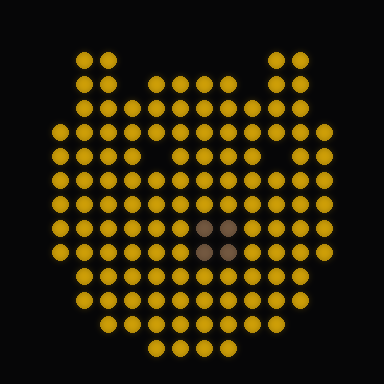
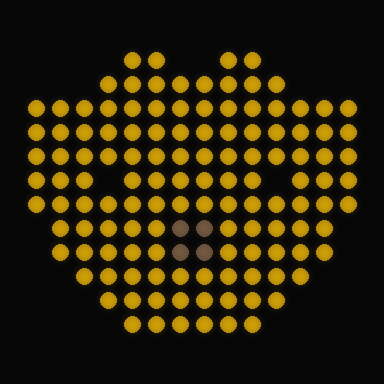
Redesign dog/cat/fish as explicit pixel rows instead of triangle() composition
triangle() rasterizes a shape as narrow as an ear or tail into a flat-topped
block at 16x16, not a point -- confirmed by zooming into the previous
render. Switched to the same technique as the heart and the existing
hand-painted icons (bunny.py, duck.py): explicit per-row rect() spans, so
the silhouette is authored directly instead of composed from primitives
that don't taper cleanly at this resolution.

First pass still had ears/tips with a gap wide enough to read as two
separate lobes (bear-like) instead of ears on one head; narrowed it so the
gap closes after a single row.

diff --git a/Bag3/Code/BroadcastCode/IconDisplay/icons/dog.py b/Bag3/Code/BroadcastCode/IconDisplay/icons/dog.py
@@ -2,18 +2,18 @@
 ICON = (
     (0, 0, 0), (0, 0, 0), (0, 0, 0), (0, 0, 0), (0, 0, 0), (0, 0, 0), (0, 0, 0), (0, 0, 0), (0, 0, 0), (0, 0, 0), (0, 0, 0), (0, 0, 0), (0, 0, 0), (0, 0, 0), (0, 0, 0), (0, 0, 0),
     (0, 0, 0), (0, 0, 0), (0, 0, 0), (0, 0, 0), (0, 0, 0), (0, 0, 0), (0, 0, 0), (0, 0, 0), (0, 0, 0), (0, 0, 0), (0, 0, 0), (0, 0, 0), (0, 0, 0), (0, 0, 0), (0, 0, 0), (0, 0, 0),
-    (0, 0, 0), (0, 0, 0), (0, 0, 0), (70, 40, 20), (70, 40, 20), (0, 0, 0), (0, 0, 0), (0, 0, 0), (0, 0, 0), (0, 0, 0), (0, 0, 0), (70, 40, 20), (70, 40, 20), (0, 0, 0), (0, 0, 0), (0, 0, 0),
-    (0, 0, 0), (0, 0, 0), (0, 0, 0), (70, 40, 20), (70, 40, 20), (0, 0, 0), (0, 0, 0), (0, 0, 0), (0, 0, 0), (0, 0, 0), (0, 0, 0), (70, 40, 20), (70, 40, 20), (0, 0, 0), (0, 0, 0), (0, 0, 0),
-    (0, 0, 0), (0, 0, 0), (0, 0, 0), (70, 40, 20), (70, 40, 20), (0, 0, 0), (120, 70, 20), (120, 70, 20), (120, 70, 20), (120, 70, 20), (0, 0, 0), (70, 40, 20), (70, 40, 20), (0, 0, 0), (0, 0, 0), (0, 0, 0),
-    (0, 0, 0), (0, 0, 0), (70, 40, 20), (70, 40, 20), (70, 40, 20), (70, 40, 20), (120, 70, 20), (120, 70, 20), (120, 70, 20), (120, 70, 20), (70, 40, 20), (70, 40, 20), (70, 40, 20), (70, 40, 20), (0, 0, 0), (0, 0, 0),
-    (0, 0, 0), (0, 0, 0), (70, 40, 20), (70, 40, 20), (70, 40, 20), (70, 40, 20), (0, 0, 0), (120, 70, 20), (120, 70, 20), (120, 70, 20), (0, 0, 0), (70, 40, 20), (70, 40, 20), (70, 40, 20), (0, 0, 0), (0, 0, 0),
+    (0, 0, 0), (0, 0, 0), (0, 0, 0), (0, 0, 0), (0, 0, 0), (70, 40, 20), (70, 40, 20), (0, 0, 0), (0, 0, 0), (70, 40, 20), (70, 40, 20), (0, 0, 0), (0, 0, 0), (0, 0, 0), (0, 0, 0), (0, 0, 0),
+    (0, 0, 0), (0, 0, 0), (0, 0, 0), (0, 0, 0), (70, 40, 20), (70, 40, 20), (70, 40, 20), (70, 40, 20), (70, 40, 20), (70, 40, 20), (70, 40, 20), (70, 40, 20), (0, 0, 0), (0, 0, 0), (0, 0, 0), (0, 0, 0),
+    (0, 0, 0), (120, 70, 20), (120, 70, 20), (120, 70, 20), (120, 70, 20), (120, 70, 20), (120, 70, 20), (120, 70, 20), (120, 70, 20), (120, 70, 20), (120, 70, 20), (120, 70, 20), (120, 70, 20), (120, 70, 20), (120, 70, 20), (0, 0, 0),
+    (0, 0, 0), (120, 70, 20), (120, 70, 20), (120, 70, 20), (120, 70, 20), (120, 70, 20), (120, 70, 20), (120, 70, 20), (120, 70, 20), (120, 70, 20), (120, 70, 20), (120, 70, 20), (120, 70, 20), (120, 70, 20), (120, 70, 20), (0, 0, 0),
+    (0, 0, 0), (120, 70, 20), (120, 70, 20), (120, 70, 20), (120, 70, 20), (120, 70, 20), (120, 70, 20), (120, 70, 20), (120, 70, 20), (120, 70, 20), (120, 70, 20), (120, 70, 20), (120, 70, 20), (120, 70, 20), (120, 70, 20), (0, 0, 0),
+    (0, 0, 0), (120, 70, 20), (120, 70, 20), (120, 70, 20), (0, 0, 0), (120, 70, 20), (120, 70, 20), (120, 70, 20), (120, 70, 20), (120, 70, 20), (120, 70, 20), (0, 0, 0), (120, 70, 20), (120, 70, 20), (120, 70, 20), (0, 0, 0),
+    (0, 0, 0), (120, 70, 20), (120, 70, 20), (120, 70, 20), (120, 70, 20), (120, 70, 20), (120, 70, 20), (120, 70, 20), (120, 70, 20), (120, 70, 20), (120, 70, 20), (120, 70, 20), (120, 70, 20), (120, 70, 20), (120, 70, 20), (0, 0, 0),
     (0, 0, 0), (0, 0, 0), (120, 70, 20), (120, 70, 20), (120, 70, 20), (120, 70, 20), (120, 70, 20), (120, 70, 20), (120, 70, 20), (120, 70, 20), (120, 70, 20), (120, 70, 20), (120, 70, 20), (120, 70, 20), (0, 0, 0), (0, 0, 0),
-    (0, 0, 0), (0, 0, 0), (120, 70, 20), (120, 70, 20), (120, 70, 20), (120, 70, 20), (120, 70, 20), (120, 70, 20), (120, 70, 20), (120, 70, 20), (120, 70, 20), (120, 70, 20), (120, 70, 20), (120, 70, 20), (0, 0, 0), (0, 0, 0),
-    (0, 0, 0), (0, 0, 0), (120, 70, 20), (120, 70, 20), (120, 70, 20), (120, 70, 20), (120, 70, 20), (120, 70, 20), (120, 70, 20), (120, 70, 20), (120, 70, 20), (120, 70, 20), (120, 70, 20), (120, 70, 20), (0, 0, 0), (0, 0, 0),
-    (0, 0, 0), (0, 0, 0), (120, 70, 20), (120, 70, 20), (120, 70, 20), (120, 70, 20), (120, 70, 20), (70, 40, 20), (70, 40, 20), (120, 70, 20), (120, 70, 20), (120, 70, 20), (120, 70, 20), (120, 70, 20), (0, 0, 0), (0, 0, 0),
-    (0, 0, 0), (0, 0, 0), (120, 70, 20), (120, 70, 20), (120, 70, 20), (120, 70, 20), (70, 40, 20), (70, 40, 20), (70, 40, 20), (70, 40, 20), (120, 70, 20), (120, 70, 20), (120, 70, 20), (120, 70, 20), (0, 0, 0), (0, 0, 0),
-    (0, 0, 0), (0, 0, 0), (0, 0, 0), (120, 70, 20), (120, 70, 20), (120, 70, 20), (70, 40, 20), (70, 40, 20), (0, 0, 0), (70, 40, 20), (120, 70, 20), (120, 70, 20), (120, 70, 20), (0, 0, 0), (0, 0, 0), (0, 0, 0),
-    (0, 0, 0), (0, 0, 0), (0, 0, 0), (0, 0, 0), (120, 70, 20), (120, 70, 20), (120, 70, 20), (70, 40, 20), (70, 40, 20), (120, 70, 20), (120, 70, 20), (120, 70, 20), (0, 0, 0), (0, 0, 0), (0, 0, 0), (0, 0, 0),
-    (0, 0, 0), (0, 0, 0), (0, 0, 0), (0, 0, 0), (0, 0, 0), (0, 0, 0), (120, 70, 20), (120, 70, 20), (120, 70, 20), (120, 70, 20), (0, 0, 0), (0, 0, 0), (0, 0, 0), (0, 0, 0), (0, 0, 0), (0, 0, 0),
+    (0, 0, 0), (0, 0, 0), (120, 70, 20), (120, 70, 20), (120, 70, 20), (120, 70, 20), (120, 70, 20), (0, 0, 0), (0, 0, 0), (120, 70, 20), (120, 70, 20), (120, 70, 20), (120, 70, 20), (120, 70, 20), (0, 0, 0), (0, 0, 0),
+    (0, 0, 0), (0, 0, 0), (0, 0, 0), (120, 70, 20), (120, 70, 20), (120, 70, 20), (120, 70, 20), (120, 70, 20), (120, 70, 20), (120, 70, 20), (120, 70, 20), (120, 70, 20), (120, 70, 20), (0, 0, 0), (0, 0, 0), (0, 0, 0),
+    (0, 0, 0), (0, 0, 0), (0, 0, 0), (0, 0, 0), (120, 70, 20), (120, 70, 20), (120, 70, 20), (120, 70, 20), (120, 70, 20), (120, 70, 20), (120, 70, 20), (120, 70, 20), (0, 0, 0), (0, 0, 0), (0, 0, 0), (0, 0, 0),
+    (0, 0, 0), (0, 0, 0), (0, 0, 0), (0, 0, 0), (0, 0, 0), (120, 70, 20), (120, 70, 20), (120, 70, 20), (120, 70, 20), (120, 70, 20), (120, 70, 20), (0, 0, 0), (0, 0, 0), (0, 0, 0), (0, 0, 0), (0, 0, 0),
+    (0, 0, 0), (0, 0, 0), (0, 0, 0), (0, 0, 0), (0, 0, 0), (0, 0, 0), (0, 0, 0), (0, 0, 0), (0, 0, 0), (0, 0, 0), (0, 0, 0), (0, 0, 0), (0, 0, 0), (0, 0, 0), (0, 0, 0), (0, 0, 0),
     (0, 0, 0), (0, 0, 0), (0, 0, 0), (0, 0, 0), (0, 0, 0), (0, 0, 0), (0, 0, 0), (0, 0, 0), (0, 0, 0), (0, 0, 0), (0, 0, 0), (0, 0, 0), (0, 0, 0), (0, 0, 0), (0, 0, 0), (0, 0, 0),
 )

diff --git a/Bag3/Code/Stations/Icon Display Station/icons/dog.py b/Bag3/Code/Stations/Icon Display Station/icons/dog.py
@@ -2,18 +2,18 @@
 ICON = (
     (0, 0, 0), (0, 0, 0), (0, 0, 0), (0, 0, 0), (0, 0, 0), (0, 0, 0), (0, 0, 0), (0, 0, 0), (0, 0, 0), (0, 0, 0), (0, 0, 0), (0, 0, 0), (0, 0, 0), (0, 0, 0), (0, 0, 0), (0, 0, 0),
     (0, 0, 0), (0, 0, 0), (0, 0, 0), (0, 0, 0), (0, 0, 0), (0, 0, 0), (0, 0, 0), (0, 0, 0), (0, 0, 0), (0, 0, 0), (0, 0, 0), (0, 0, 0), (0, 0, 0), (0, 0, 0), (0, 0, 0), (0, 0, 0),
-    (0, 0, 0), (0, 0, 0), (0, 0, 0), (70, 40, 20), (70, 40, 20), (0, 0, 0), (0, 0, 0), (0, 0, 0), (0, 0, 0), (0, 0, 0), (0, 0, 0), (70, 40, 20), (70, 40, 20), (0, 0, 0), (0, 0, 0), (0, 0, 0),
-    (0, 0, 0), (0, 0, 0), (0, 0, 0), (70, 40, 20), (70, 40, 20), (0, 0, 0), (0, 0, 0), (0, 0, 0), (0, 0, 0), (0, 0, 0), (0, 0, 0), (70, 40, 20), (70, 40, 20), (0, 0, 0), (0, 0, 0), (0, 0, 0),
-    (0, 0, 0), (0, 0, 0), (0, 0, 0), (70, 40, 20), (70, 40, 20), (0, 0, 0), (120, 70, 20), (120, 70, 20), (120, 70, 20), (120, 70, 20), (0, 0, 0), (70, 40, 20), (70, 40, 20), (0, 0, 0), (0, 0, 0), (0, 0, 0),
-    (0, 0, 0), (0, 0, 0), (70, 40, 20), (70, 40, 20), (70, 40, 20), (70, 40, 20), (120, 70, 20), (120, 70, 20), (120, 70, 20), (120, 70, 20), (70, 40, 20), (70, 40, 20), (70, 40, 20), (70, 40, 20), (0, 0, 0), (0, 0, 0),
-    (0, 0, 0), (0, 0, 0), (70, 40, 20), (70, 40, 20), (70, 40, 20), (70, 40, 20), (0, 0, 0), (120, 70, 20), (120, 70, 20), (120, 70, 20), (0, 0, 0), (70, 40, 20), (70, 40, 20), (70, 40, 20), (0, 0, 0), (0, 0, 0),
+    (0, 0, 0), (0, 0, 0), (0, 0, 0), (0, 0, 0), (0, 0, 0), (70, 40, 20), (70, 40, 20), (0, 0, 0), (0, 0, 0), (70, 40, 20), (70, 40, 20), (0, 0, 0), (0, 0, 0), (0, 0, 0), (0, 0, 0), (0, 0, 0),
+    (0, 0, 0), (0, 0, 0), (0, 0, 0), (0, 0, 0), (70, 40, 20), (70, 40, 20), (70, 40, 20), (70, 40, 20), (70, 40, 20), (70, 40, 20), (70, 40, 20), (70, 40, 20), (0, 0, 0), (0, 0, 0), (0, 0, 0), (0, 0, 0),
+    (0, 0, 0), (120, 70, 20), (120, 70, 20), (120, 70, 20), (120, 70, 20), (120, 70, 20), (120, 70, 20), (120, 70, 20), (120, 70, 20), (120, 70, 20), (120, 70, 20), (120, 70, 20), (120, 70, 20), (120, 70, 20), (120, 70, 20), (0, 0, 0),
+    (0, 0, 0), (120, 70, 20), (120, 70, 20), (120, 70, 20), (120, 70, 20), (120, 70, 20), (120, 70, 20), (120, 70, 20), (120, 70, 20), (120, 70, 20), (120, 70, 20), (120, 70, 20), (120, 70, 20), (120, 70, 20), (120, 70, 20), (0, 0, 0),
+    (0, 0, 0), (120, 70, 20), (120, 70, 20), (120, 70, 20), (120, 70, 20), (120, 70, 20), (120, 70, 20), (120, 70, 20), (120, 70, 20), (120, 70, 20), (120, 70, 20), (120, 70, 20), (120, 70, 20), (120, 70, 20), (120, 70, 20), (0, 0, 0),
+    (0, 0, 0), (120, 70, 20), (120, 70, 20), (120, 70, 20), (0, 0, 0), (120, 70, 20), (120, 70, 20), (120, 70, 20), (120, 70, 20), (120, 70, 20), (120, 70, 20), (0, 0, 0), (120, 70, 20), (120, 70, 20), (120, 70, 20), (0, 0, 0),
+    (0, 0, 0), (120, 70, 20), (120, 70, 20), (120, 70, 20), (120, 70, 20), (120, 70, 20), (120, 70, 20), (120, 70, 20), (120, 70, 20), (120, 70, 20), (120, 70, 20), (120, 70, 20), (120, 70, 20), (120, 70, 20), (120, 70, 20), (0, 0, 0),
     (0, 0, 0), (0, 0, 0), (120, 70, 20), (120, 70, 20), (120, 70, 20), (120, 70, 20), (120, 70, 20), (120, 70, 20), (120, 70, 20), (120, 70, 20), (120, 70, 20), (120, 70, 20), (120, 70, 20), (120, 70, 20), (0, 0, 0), (0, 0, 0),
-    (0, 0, 0), (0, 0, 0), (120, 70, 20), (120, 70, 20), (120, 70, 20), (120, 70, 20), (120, 70, 20), (120, 70, 20), (120, 70, 20), (120, 70, 20), (120, 70, 20), (120, 70, 20), (120, 70, 20), (120, 70, 20), (0, 0, 0), (0, 0, 0),
-    (0, 0, 0), (0, 0, 0), (120, 70, 20), (120, 70, 20), (120, 70, 20), (120, 70, 20), (120, 70, 20), (120, 70, 20), (120, 70, 20), (120, 70, 20), (120, 70, 20), (120, 70, 20), (120, 70, 20), (120, 70, 20), (0, 0, 0), (0, 0, 0),
-    (0, 0, 0), (0, 0, 0), (120, 70, 20), (120, 70, 20), (120, 70, 20), (120, 70, 20), (120, 70, 20), (70, 40, 20), (70, 40, 20), (120, 70, 20), (120, 70, 20), (120, 70, 20), (120, 70, 20), (120, 70, 20), (0, 0, 0), (0, 0, 0),
-    (0, 0, 0), (0, 0, 0), (120, 70, 20), (120, 70, 20), (120, 70, 20), (120, 70, 20), (70, 40, 20), (70, 40, 20), (70, 40, 20), (70, 40, 20), (120, 70, 20), (120, 70, 20), (120, 70, 20), (120, 70, 20), (0, 0, 0), (0, 0, 0),
-    (0, 0, 0), (0, 0, 0), (0, 0, 0), (120, 70, 20), (120, 70, 20), (120, 70, 20), (70, 40, 20), (70, 40, 20), (0, 0, 0), (70, 40, 20), (120, 70, 20), (120, 70, 20), (120, 70, 20), (0, 0, 0), (0, 0, 0), (0, 0, 0),
-    (0, 0, 0), (0, 0, 0), (0, 0, 0), (0, 0, 0), (120, 70, 20), (120, 70, 20), (120, 70, 20), (70, 40, 20), (70, 40, 20), (120, 70, 20), (120, 70, 20), (120, 70, 20), (0, 0, 0), (0, 0, 0), (0, 0, 0), (0, 0, 0),
-    (0, 0, 0), (0, 0, 0), (0, 0, 0), (0, 0, 0), (0, 0, 0), (0, 0, 0), (120, 70, 20), (120, 70, 20), (120, 70, 20), (120, 70, 20), (0, 0, 0), (0, 0, 0), (0, 0, 0), (0, 0, 0), (0, 0, 0), (0, 0, 0),
+    (0, 0, 0), (0, 0, 0), (120, 70, 20), (120, 70, 20), (120, 70, 20), (120, 70, 20), (120, 70, 20), (0, 0, 0), (0, 0, 0), (120, 70, 20), (120, 70, 20), (120, 70, 20), (120, 70, 20), (120, 70, 20), (0, 0, 0), (0, 0, 0),
+    (0, 0, 0), (0, 0, 0), (0, 0, 0), (120, 70, 20), (120, 70, 20), (120, 70, 20), (120, 70, 20), (120, 70, 20), (120, 70, 20), (120, 70, 20), (120, 70, 20), (120, 70, 20), (120, 70, 20), (0, 0, 0), (0, 0, 0), (0, 0, 0),
+    (0, 0, 0), (0, 0, 0), (0, 0, 0), (0, 0, 0), (120, 70, 20), (120, 70, 20), (120, 70, 20), (120, 70, 20), (120, 70, 20), (120, 70, 20), (120, 70, 20), (120, 70, 20), (0, 0, 0), (0, 0, 0), (0, 0, 0), (0, 0, 0),
+    (0, 0, 0), (0, 0, 0), (0, 0, 0), (0, 0, 0), (0, 0, 0), (120, 70, 20), (120, 70, 20), (120, 70, 20), (120, 70, 20), (120, 70, 20), (120, 70, 20), (0, 0, 0), (0, 0, 0), (0, 0, 0), (0, 0, 0), (0, 0, 0),
+    (0, 0, 0), (0, 0, 0), (0, 0, 0), (0, 0, 0), (0, 0, 0), (0, 0, 0), (0, 0, 0), (0, 0, 0), (0, 0, 0), (0, 0, 0), (0, 0, 0), (0, 0, 0), (0, 0, 0), (0, 0, 0), (0, 0, 0), (0, 0, 0),
     (0, 0, 0), (0, 0, 0), (0, 0, 0), (0, 0, 0), (0, 0, 0), (0, 0, 0), (0, 0, 0), (0, 0, 0), (0, 0, 0), (0, 0, 0), (0, 0, 0), (0, 0, 0), (0, 0, 0), (0, 0, 0), (0, 0, 0), (0, 0, 0),
 )

diff --git a/Bag3/Code/BroadcastCode/IconDisplay/icons/cat.py b/Bag3/Code/BroadcastCode/IconDisplay/icons/cat.py
@@ -2,18 +2,18 @@
 ICON = (
     (0, 0, 0), (0, 0, 0), (0, 0, 0), (0, 0, 0), (0, 0, 0), (0, 0, 0), (0, 0, 0), (0, 0, 0), (0, 0, 0), (0, 0, 0), (0, 0, 0), (0, 0, 0), (0, 0, 0), (0, 0, 0), (0, 0, 0), (0, 0, 0),
     (0, 0, 0), (0, 0, 0), (0, 0, 0), (0, 0, 0), (0, 0, 0), (0, 0, 0), (0, 0, 0), (0, 0, 0), (0, 0, 0), (0, 0, 0), (0, 0, 0), (0, 0, 0), (0, 0, 0), (0, 0, 0), (0, 0, 0), (0, 0, 0),
-    (0, 0, 0), (0, 0, 0), (0, 0, 0), (255, 140, 0), (255, 140, 0), (0, 0, 0), (0, 0, 0), (0, 0, 0), (0, 0, 0), (0, 0, 0), (0, 0, 0), (255, 140, 0), (255, 140, 0), (0, 0, 0), (0, 0, 0), (0, 0, 0),
-    (0, 0, 0), (0, 0, 0), (0, 0, 0), (255, 140, 0), (255, 140, 0), (0, 0, 0), (255, 140, 0), (255, 140, 0), (255, 140, 0), (255, 140, 0), (0, 0, 0), (255, 140, 0), (255, 140, 0), (0, 0, 0), (0, 0, 0), (0, 0, 0),
-    (0, 0, 0), (0, 0, 0), (0, 0, 0), (255, 140, 0), (255, 140, 0), (255, 140, 0), (255, 140, 0), (255, 140, 0), (255, 140, 0), (255, 140, 0), (255, 140, 0), (255, 140, 0), (255, 140, 0), (0, 0, 0), (0, 0, 0), (0, 0, 0),
-    (0, 0, 0), (0, 0, 0), (255, 140, 0), (255, 140, 0), (255, 140, 0), (255, 140, 0), (255, 140, 0), (255, 140, 0), (255, 140, 0), (255, 140, 0), (255, 140, 0), (255, 140, 0), (255, 140, 0), (255, 140, 0), (0, 0, 0), (0, 0, 0),
-    (0, 0, 0), (0, 0, 0), (255, 140, 0), (255, 140, 0), (255, 140, 0), (255, 140, 0), (0, 0, 0), (255, 140, 0), (255, 140, 0), (255, 140, 0), (255, 140, 0), (0, 0, 0), (255, 140, 0), (255, 140, 0), (0, 0, 0), (0, 0, 0),
-    (0, 0, 0), (0, 0, 0), (255, 140, 0), (255, 140, 0), (255, 140, 0), (255, 140, 0), (255, 140, 0), (255, 140, 0), (255, 140, 0), (255, 140, 0), (255, 140, 0), (255, 140, 0), (255, 140, 0), (255, 140, 0), (0, 0, 0), (0, 0, 0),
-    (0, 0, 0), (0, 0, 0), (255, 140, 0), (255, 140, 0), (255, 140, 0), (255, 140, 0), (255, 140, 0), (255, 140, 0), (255, 140, 0), (255, 140, 0), (255, 140, 0), (255, 140, 0), (255, 140, 0), (255, 140, 0), (0, 0, 0), (0, 0, 0),
-    (0, 0, 0), (0, 0, 0), (255, 140, 0), (255, 140, 0), (255, 140, 0), (255, 140, 0), (255, 140, 0), (255, 140, 0), (70, 40, 20), (70, 40, 20), (255, 140, 0), (255, 140, 0), (255, 140, 0), (255, 140, 0), (0, 0, 0), (0, 0, 0),
-    (0, 0, 0), (0, 0, 0), (255, 140, 0), (255, 140, 0), (255, 140, 0), (255, 140, 0), (255, 140, 0), (255, 140, 0), (70, 40, 20), (70, 40, 20), (255, 140, 0), (255, 140, 0), (255, 140, 0), (255, 140, 0), (0, 0, 0), (0, 0, 0),
-    (0, 0, 0), (0, 0, 0), (0, 0, 0), (255, 140, 0), (255, 140, 0), (255, 140, 0), (255, 140, 0), (255, 140, 0), (255, 140, 0), (255, 140, 0), (255, 140, 0), (255, 140, 0), (255, 140, 0), (0, 0, 0), (0, 0, 0), (0, 0, 0),
+    (0, 0, 0), (0, 0, 0), (0, 0, 0), (0, 0, 0), (0, 0, 0), (255, 140, 0), (255, 140, 0), (0, 0, 0), (0, 0, 0), (255, 140, 0), (255, 140, 0), (0, 0, 0), (0, 0, 0), (0, 0, 0), (0, 0, 0), (0, 0, 0),
+    (0, 0, 0), (0, 0, 0), (0, 0, 0), (0, 0, 0), (255, 140, 0), (255, 140, 0), (255, 140, 0), (255, 140, 0), (255, 140, 0), (255, 140, 0), (255, 140, 0), (255, 140, 0), (0, 0, 0), (0, 0, 0), (0, 0, 0), (0, 0, 0),
+    (0, 0, 0), (255, 140, 0), (255, 140, 0), (255, 140, 0), (255, 140, 0), (255, 140, 0), (255, 140, 0), (255, 140, 0), (255, 140, 0), (255, 140, 0), (255, 140, 0), (255, 140, 0), (255, 140, 0), (255, 140, 0), (255, 140, 0), (0, 0, 0),
+    (0, 0, 0), (255, 140, 0), (255, 140, 0), (255, 140, 0), (255, 140, 0), (255, 140, 0), (255, 140, 0), (255, 140, 0), (255, 140, 0), (255, 140, 0), (255, 140, 0), (255, 140, 0), (255, 140, 0), (255, 140, 0), (255, 140, 0), (0, 0, 0),
+    (0, 0, 0), (255, 140, 0), (255, 140, 0), (255, 140, 0), (255, 140, 0), (255, 140, 0), (255, 140, 0), (255, 140, 0), (255, 140, 0), (255, 140, 0), (255, 140, 0), (255, 140, 0), (255, 140, 0), (255, 140, 0), (255, 140, 0), (0, 0, 0),
+    (0, 0, 0), (255, 140, 0), (255, 140, 0), (255, 140, 0), (0, 0, 0), (255, 140, 0), (255, 140, 0), (255, 140, 0), (255, 140, 0), (255, 140, 0), (255, 140, 0), (0, 0, 0), (255, 140, 0), (255, 140, 0), (255, 140, 0), (0, 0, 0),
+    (0, 0, 0), (255, 140, 0), (255, 140, 0), (255, 140, 0), (255, 140, 0), (255, 140, 0), (255, 140, 0), (255, 140, 0), (255, 140, 0), (255, 140, 0), (255, 140, 0), (255, 140, 0), (255, 140, 0), (255, 140, 0), (255, 140, 0), (0, 0, 0),
+    (0, 0, 0), (0, 0, 0), (255, 140, 0), (255, 140, 0), (255, 140, 0), (255, 140, 0), (255, 140, 0), (70, 40, 20), (70, 40, 20), (255, 140, 0), (255, 140, 0), (255, 140, 0), (255, 140, 0), (255, 140, 0), (0, 0, 0), (0, 0, 0),
+    (0, 0, 0), (0, 0, 0), (255, 140, 0), (255, 140, 0), (255, 140, 0), (255, 140, 0), (255, 140, 0), (70, 40, 20), (70, 40, 20), (255, 140, 0), (255, 140, 0), (255, 140, 0), (255, 140, 0), (255, 140, 0), (0, 0, 0), (0, 0, 0),
     (0, 0, 0), (0, 0, 0), (0, 0, 0), (255, 140, 0), (255, 140, 0), (255, 140, 0), (255, 140, 0), (255, 140, 0), (255, 140, 0), (255, 140, 0), (255, 140, 0), (255, 140, 0), (255, 140, 0), (0, 0, 0), (0, 0, 0), (0, 0, 0),
     (0, 0, 0), (0, 0, 0), (0, 0, 0), (0, 0, 0), (255, 140, 0), (255, 140, 0), (255, 140, 0), (255, 140, 0), (255, 140, 0), (255, 140, 0), (255, 140, 0), (255, 140, 0), (0, 0, 0), (0, 0, 0), (0, 0, 0), (0, 0, 0),
-    (0, 0, 0), (0, 0, 0), (0, 0, 0), (0, 0, 0), (0, 0, 0), (0, 0, 0), (255, 140, 0), (255, 140, 0), (255, 140, 0), (255, 140, 0), (0, 0, 0), (0, 0, 0), (0, 0, 0), (0, 0, 0), (0, 0, 0), (0, 0, 0),
+    (0, 0, 0), (0, 0, 0), (0, 0, 0), (0, 0, 0), (0, 0, 0), (255, 140, 0), (255, 140, 0), (255, 140, 0), (255, 140, 0), (255, 140, 0), (255, 140, 0), (0, 0, 0), (0, 0, 0), (0, 0, 0), (0, 0, 0), (0, 0, 0),
+    (0, 0, 0), (0, 0, 0), (0, 0, 0), (0, 0, 0), (0, 0, 0), (0, 0, 0), (0, 0, 0), (0, 0, 0), (0, 0, 0), (0, 0, 0), (0, 0, 0), (0, 0, 0), (0, 0, 0), (0, 0, 0), (0, 0, 0), (0, 0, 0),
     (0, 0, 0), (0, 0, 0), (0, 0, 0), (0, 0, 0), (0, 0, 0), (0, 0, 0), (0, 0, 0), (0, 0, 0), (0, 0, 0), (0, 0, 0), (0, 0, 0), (0, 0, 0), (0, 0, 0), (0, 0, 0), (0, 0, 0), (0, 0, 0),
 )

diff --git a/Bag3/Code/Stations/Icon Display Station/icons/cat.py b/Bag3/Code/Stations/Icon Display Station/icons/cat.py
@@ -2,18 +2,18 @@
 ICON = (
     (0, 0, 0), (0, 0, 0), (0, 0, 0), (0, 0, 0), (0, 0, 0), (0, 0, 0), (0, 0, 0), (0, 0, 0), (0, 0, 0), (0, 0, 0), (0, 0, 0), (0, 0, 0), (0, 0, 0), (0, 0, 0), (0, 0, 0), (0, 0, 0),
     (0, 0, 0), (0, 0, 0), (0, 0, 0), (0, 0, 0), (0, 0, 0), (0, 0, 0), (0, 0, 0), (0, 0, 0), (0, 0, 0), (0, 0, 0), (0, 0, 0), (0, 0, 0), (0, 0, 0), (0, 0, 0), (0, 0, 0), (0, 0, 0),
-    (0, 0, 0), (0, 0, 0), (0, 0, 0), (255, 140, 0), (255, 140, 0), (0, 0, 0), (0, 0, 0), (0, 0, 0), (0, 0, 0), (0, 0, 0), (0, 0, 0), (255, 140, 0), (255, 140, 0), (0, 0, 0), (0, 0, 0), (0, 0, 0),
-    (0, 0, 0), (0, 0, 0), (0, 0, 0), (255, 140, 0), (255, 140, 0), (0, 0, 0), (255, 140, 0), (255, 140, 0), (255, 140, 0), (255, 140, 0), (0, 0, 0), (255, 140, 0), (255, 140, 0), (0, 0, 0), (0, 0, 0), (0, 0, 0),
-    (0, 0, 0), (0, 0, 0), (0, 0, 0), (255, 140, 0), (255, 140, 0), (255, 140, 0), (255, 140, 0), (255, 140, 0), (255, 140, 0), (255, 140, 0), (255, 140, 0), (255, 140, 0), (255, 140, 0), (0, 0, 0), (0, 0, 0), (0, 0, 0),
-    (0, 0, 0), (0, 0, 0), (255, 140, 0), (255, 140, 0), (255, 140, 0), (255, 140, 0), (255, 140, 0), (255, 140, 0), (255, 140, 0), (255, 140, 0), (255, 140, 0), (255, 140, 0), (255, 140, 0), (255, 140, 0), (0, 0, 0), (0, 0, 0),
-    (0, 0, 0), (0, 0, 0), (255, 140, 0), (255, 140, 0), (255, 140, 0), (255, 140, 0), (0, 0, 0), (255, 140, 0), (255, 140, 0), (255, 140, 0), (255, 140, 0), (0, 0, 0), (255, 140, 0), (255, 140, 0), (0, 0, 0), (0, 0, 0),
-    (0, 0, 0), (0, 0, 0), (255, 140, 0), (255, 140, 0), (255, 140, 0), (255, 140, 0), (255, 140, 0), (255, 140, 0), (255, 140, 0), (255, 140, 0), (255, 140, 0), (255, 140, 0), (255, 140, 0), (255, 140, 0), (0, 0, 0), (0, 0, 0),
-    (0, 0, 0), (0, 0, 0), (255, 140, 0), (255, 140, 0), (255, 140, 0), (255, 140, 0), (255, 140, 0), (255, 140, 0), (255, 140, 0), (255, 140, 0), (255, 140, 0), (255, 140, 0), (255, 140, 0), (255, 140, 0), (0, 0, 0), (0, 0, 0),
-    (0, 0, 0), (0, 0, 0), (255, 140, 0), (255, 140, 0), (255, 140, 0), (255, 140, 0), (255, 140, 0), (255, 140, 0), (70, 40, 20), (70, 40, 20), (255, 140, 0), (255, 140, 0), (255, 140, 0), (255, 140, 0), (0, 0, 0), (0, 0, 0),
-    (0, 0, 0), (0, 0, 0), (255, 140, 0), (255, 140, 0), (255, 140, 0), (255, 140, 0), (255, 140, 0), (255, 140, 0), (70, 40, 20), (70, 40, 20), (255, 140, 0), (255, 140, 0), (255, 140, 0), (255, 140, 0), (0, 0, 0), (0, 0, 0),
-    (0, 0, 0), (0, 0, 0), (0, 0, 0), (255, 140, 0), (255, 140, 0), (255, 140, 0), (255, 140, 0), (255, 140, 0), (255, 140, 0), (255, 140, 0), (255, 140, 0), (255, 140, 0), (255, 140, 0), (0, 0, 0), (0, 0, 0), (0, 0, 0),
+    (0, 0, 0), (0, 0, 0), (0, 0, 0), (0, 0, 0), (0, 0, 0), (255, 140, 0), (255, 140, 0), (0, 0, 0), (0, 0, 0), (255, 140, 0), (255, 140, 0), (0, 0, 0), (0, 0, 0), (0, 0, 0), (0, 0, 0), (0, 0, 0),
+    (0, 0, 0), (0, 0, 0), (0, 0, 0), (0, 0, 0), (255, 140, 0), (255, 140, 0), (255, 140, 0), (255, 140, 0), (255, 140, 0), (255, 140, 0), (255, 140, 0), (255, 140, 0), (0, 0, 0), (0, 0, 0), (0, 0, 0), (0, 0, 0),
+    (0, 0, 0), (255, 140, 0), (255, 140, 0), (255, 140, 0), (255, 140, 0), (255, 140, 0), (255, 140, 0), (255, 140, 0), (255, 140, 0), (255, 140, 0), (255, 140, 0), (255, 140, 0), (255, 140, 0), (255, 140, 0), (255, 140, 0), (0, 0, 0),
+    (0, 0, 0), (255, 140, 0), (255, 140, 0), (255, 140, 0), (255, 140, 0), (255, 140, 0), (255, 140, 0), (255, 140, 0), (255, 140, 0), (255, 140, 0), (255, 140, 0), (255, 140, 0), (255, 140, 0), (255, 140, 0), (255, 140, 0), (0, 0, 0),
+    (0, 0, 0), (255, 140, 0), (255, 140, 0), (255, 140, 0), (255, 140, 0), (255, 140, 0), (255, 140, 0), (255, 140, 0), (255, 140, 0), (255, 140, 0), (255, 140, 0), (255, 140, 0), (255, 140, 0), (255, 140, 0), (255, 140, 0), (0, 0, 0),
+    (0, 0, 0), (255, 140, 0), (255, 140, 0), (255, 140, 0), (0, 0, 0), (255, 140, 0), (255, 140, 0), (255, 140, 0), (255, 140, 0), (255, 140, 0), (255, 140, 0), (0, 0, 0), (255, 140, 0), (255, 140, 0), (255, 140, 0), (0, 0, 0),
+    (0, 0, 0), (255, 140, 0), (255, 140, 0), (255, 140, 0), (255, 140, 0), (255, 140, 0), (255, 140, 0), (255, 140, 0), (255, 140, 0), (255, 140, 0), (255, 140, 0), (255, 140, 0), (255, 140, 0), (255, 140, 0), (255, 140, 0), (0, 0, 0),
+    (0, 0, 0), (0, 0, 0), (255, 140, 0), (255, 140, 0), (255, 140, 0), (255, 140, 0), (255, 140, 0), (70, 40, 20), (70, 40, 20), (255, 140, 0), (255, 140, 0), (255, 140, 0), (255, 140, 0), (255, 140, 0), (0, 0, 0), (0, 0, 0),
+    (0, 0, 0), (0, 0, 0), (255, 140, 0), (255, 140, 0), (255, 140, 0), (255, 140, 0), (255, 140, 0), (70, 40, 20), (70, 40, 20), (255, 140, 0), (255, 140, 0), (255, 140, 0), (255, 140, 0), (255, 140, 0), (0, 0, 0), (0, 0, 0),
     (0, 0, 0), (0, 0, 0), (0, 0, 0), (255, 140, 0), (255, 140, 0), (255, 140, 0), (255, 140, 0), (255, 140, 0), (255, 140, 0), (255, 140, 0), (255, 140, 0), (255, 140, 0), (255, 140, 0), (0, 0, 0), (0, 0, 0), (0, 0, 0),
     (0, 0, 0), (0, 0, 0), (0, 0, 0), (0, 0, 0), (255, 140, 0), (255, 140, 0), (255, 140, 0), (255, 140, 0), (255, 140, 0), (255, 140, 0), (255, 140, 0), (255, 140, 0), (0, 0, 0), (0, 0, 0), (0, 0, 0), (0, 0, 0),
-    (0, 0, 0), (0, 0, 0), (0, 0, 0), (0, 0, 0), (0, 0, 0), (0, 0, 0), (255, 140, 0), (255, 140, 0), (255, 140, 0), (255, 140, 0), (0, 0, 0), (0, 0, 0), (0, 0, 0), (0, 0, 0), (0, 0, 0), (0, 0, 0),
+    (0, 0, 0), (0, 0, 0), (0, 0, 0), (0, 0, 0), (0, 0, 0), (255, 140, 0), (255, 140, 0), (255, 140, 0), (255, 140, 0), (255, 140, 0), (255, 140, 0), (0, 0, 0), (0, 0, 0), (0, 0, 0), (0, 0, 0), (0, 0, 0),
+    (0, 0, 0), (0, 0, 0), (0, 0, 0), (0, 0, 0), (0, 0, 0), (0, 0, 0), (0, 0, 0), (0, 0, 0), (0, 0, 0), (0, 0, 0), (0, 0, 0), (0, 0, 0), (0, 0, 0), (0, 0, 0), (0, 0, 0), (0, 0, 0),
     (0, 0, 0), (0, 0, 0), (0, 0, 0), (0, 0, 0), (0, 0, 0), (0, 0, 0), (0, 0, 0), (0, 0, 0), (0, 0, 0), (0, 0, 0), (0, 0, 0), (0, 0, 0), (0, 0, 0), (0, 0, 0), (0, 0, 0), (0, 0, 0),
 )

diff --git a/Bag3/Code/BroadcastCode/IconDisplay/icons/fish.py b/Bag3/Code/BroadcastCode/IconDisplay/icons/fish.py
@@ -3,16 +3,16 @@ ICON = (
     (0, 0, 0), (0, 0, 0), (0, 0, 0), (0, 0, 0), (0, 0, 0), (0, 0, 0), (0, 0, 0), (0, 0, 0), (0, 0, 0), (0, 0, 0), (0, 0, 0), (0, 0, 0), (0, 0, 0), (0, 0, 0), (0, 0, 0), (0, 0, 0),
     (0, 0, 0), (0, 0, 0), (0, 0, 0), (0, 0, 0), (0, 0, 0), (0, 0, 0), (0, 0, 0), (0, 0, 0), (0, 0, 0), (0, 0, 0), (0, 0, 0), (0, 0, 0), (0, 0, 0), (0, 0, 0), (0, 0, 0), (0, 0, 0),
     (0, 0, 0), (0, 0, 0), (0, 0, 0), (0, 0, 0), (0, 0, 0), (0, 0, 0), (0, 0, 0), (0, 0, 0), (0, 0, 0), (0, 0, 0), (0, 0, 0), (0, 0, 0), (0, 0, 0), (0, 0, 0), (0, 0, 0), (0, 0, 0),
-    (0, 0, 0), (0, 0, 0), (0, 0, 0), (0, 0, 0), (0, 0, 0), (0, 0, 0), (0, 0, 0), (0, 0, 0), (0, 0, 0), (0, 0, 0), (0, 0, 0), (0, 0, 0), (0, 0, 0), (0, 0, 0), (0, 0, 0), (0, 0, 0),
-    (0, 0, 0), (0, 0, 0), (0, 0, 0), (0, 0, 0), (0, 180, 140), (0, 0, 0), (0, 0, 0), (0, 0, 0), (0, 0, 0), (0, 0, 0), (0, 0, 0), (0, 0, 0), (0, 0, 0), (0, 0, 0), (0, 0, 0), (0, 0, 0),
-    (0, 0, 0), (0, 0, 0), (0, 0, 0), (0, 180, 140), (0, 180, 140), (0, 0, 0), (60, 160, 255), (60, 160, 255), (60, 160, 255), (60, 160, 255), (60, 160, 255), (60, 160, 255), (0, 0, 0), (0, 0, 0), (0, 0, 0), (0, 0, 0),
-    (0, 0, 0), (0, 0, 0), (0, 180, 140), (0, 180, 140), (0, 180, 140), (60, 160, 255), (60, 160, 255), (60, 160, 255), (0, 180, 140), (0, 180, 140), (0, 180, 140), (60, 160, 255), (60, 160, 255), (0, 0, 0), (0, 0, 0), (0, 0, 0),
-    (0, 0, 0), (0, 180, 140), (0, 180, 140), (0, 180, 140), (0, 180, 140), (60, 160, 255), (60, 160, 255), (60, 160, 255), (0, 180, 140), (0, 180, 140), (0, 180, 140), (60, 160, 255), (0, 0, 0), (60, 160, 255), (0, 0, 0), (0, 0, 0),
-    (0, 0, 0), (0, 180, 140), (0, 180, 140), (0, 180, 140), (0, 180, 140), (60, 160, 255), (60, 160, 255), (60, 160, 255), (60, 160, 255), (60, 160, 255), (60, 160, 255), (60, 160, 255), (60, 160, 255), (60, 160, 255), (0, 0, 0), (0, 0, 0),
-    (0, 0, 0), (0, 0, 0), (0, 180, 140), (0, 180, 140), (0, 180, 140), (60, 160, 255), (60, 160, 255), (60, 160, 255), (60, 160, 255), (60, 160, 255), (60, 160, 255), (60, 160, 255), (60, 160, 255), (0, 0, 0), (0, 0, 0), (0, 0, 0),
-    (0, 0, 0), (0, 0, 0), (0, 0, 0), (0, 180, 140), (0, 180, 140), (0, 0, 0), (60, 160, 255), (60, 160, 255), (60, 160, 255), (60, 160, 255), (60, 160, 255), (60, 160, 255), (0, 0, 0), (0, 0, 0), (0, 0, 0), (0, 0, 0),
-    (0, 0, 0), (0, 0, 0), (0, 0, 0), (0, 0, 0), (0, 180, 140), (0, 0, 0), (0, 0, 0), (0, 0, 0), (0, 0, 0), (0, 0, 0), (0, 0, 0), (0, 0, 0), (0, 0, 0), (0, 0, 0), (0, 0, 0), (0, 0, 0),
-    (0, 0, 0), (0, 0, 0), (0, 0, 0), (0, 0, 0), (0, 0, 0), (0, 0, 0), (0, 0, 0), (0, 0, 0), (0, 0, 0), (0, 0, 0), (0, 0, 0), (0, 0, 0), (0, 0, 0), (0, 0, 0), (0, 0, 0), (0, 0, 0),
+    (0, 0, 0), (0, 0, 0), (0, 0, 0), (0, 0, 0), (0, 0, 0), (0, 0, 0), (0, 0, 0), (0, 0, 0), (0, 180, 140), (0, 180, 140), (0, 0, 0), (0, 0, 0), (0, 0, 0), (0, 0, 0), (0, 0, 0), (0, 0, 0),
+    (0, 0, 0), (0, 0, 0), (0, 0, 0), (0, 0, 0), (0, 0, 0), (0, 0, 0), (0, 0, 0), (0, 0, 0), (0, 180, 140), (0, 180, 140), (60, 160, 255), (60, 160, 255), (0, 0, 0), (0, 0, 0), (0, 0, 0), (0, 0, 0),
+    (0, 0, 0), (0, 0, 0), (0, 0, 0), (0, 0, 0), (0, 0, 0), (0, 0, 0), (60, 160, 255), (60, 160, 255), (60, 160, 255), (60, 160, 255), (60, 160, 255), (60, 160, 255), (60, 160, 255), (0, 0, 0), (0, 0, 0), (0, 0, 0),
+    (0, 0, 0), (0, 180, 140), (0, 180, 140), (0, 0, 0), (0, 0, 0), (60, 160, 255), (60, 160, 255), (60, 160, 255), (60, 160, 255), (60, 160, 255), (60, 160, 255), (60, 160, 255), (60, 160, 255), (60, 160, 255), (0, 0, 0), (0, 0, 0),
+    (0, 0, 0), (0, 180, 140), (0, 180, 140), (0, 180, 140), (60, 160, 255), (60, 160, 255), (60, 160, 255), (60, 160, 255), (60, 160, 255), (60, 160, 255), (60, 160, 255), (60, 160, 255), (0, 0, 0), (60, 160, 255), (60, 160, 255), (0, 0, 0),
+    (0, 0, 0), (0, 180, 140), (0, 180, 140), (0, 180, 140), (60, 160, 255), (60, 160, 255), (60, 160, 255), (60, 160, 255), (60, 160, 255), (60, 160, 255), (60, 160, 255), (60, 160, 255), (60, 160, 255), (60, 160, 255), (60, 160, 255), (0, 0, 0),
+    (0, 0, 0), (0, 180, 140), (0, 180, 140), (0, 180, 140), (60, 160, 255), (60, 160, 255), (60, 160, 255), (60, 160, 255), (60, 160, 255), (60, 160, 255), (60, 160, 255), (60, 160, 255), (60, 160, 255), (60, 160, 255), (60, 160, 255), (0, 0, 0),
+    (0, 0, 0), (0, 180, 140), (0, 180, 140), (0, 0, 0), (0, 0, 0), (60, 160, 255), (60, 160, 255), (60, 160, 255), (60, 160, 255), (60, 160, 255), (60, 160, 255), (60, 160, 255), (60, 160, 255), (60, 160, 255), (0, 0, 0), (0, 0, 0),
+    (0, 0, 0), (0, 0, 0), (0, 0, 0), (0, 0, 0), (0, 0, 0), (0, 0, 0), (60, 160, 255), (60, 160, 255), (60, 160, 255), (60, 160, 255), (60, 160, 255), (60, 160, 255), (60, 160, 255), (0, 0, 0), (0, 0, 0), (0, 0, 0),
+    (0, 0, 0), (0, 0, 0), (0, 0, 0), (0, 0, 0), (0, 0, 0), (0, 0, 0), (0, 0, 0), (0, 0, 0), (60, 160, 255), (60, 160, 255), (60, 160, 255), (60, 160, 255), (0, 0, 0), (0, 0, 0), (0, 0, 0), (0, 0, 0),
     (0, 0, 0), (0, 0, 0), (0, 0, 0), (0, 0, 0), (0, 0, 0), (0, 0, 0), (0, 0, 0), (0, 0, 0), (0, 0, 0), (0, 0, 0), (0, 0, 0), (0, 0, 0), (0, 0, 0), (0, 0, 0), (0, 0, 0), (0, 0, 0),
     (0, 0, 0), (0, 0, 0), (0, 0, 0), (0, 0, 0), (0, 0, 0), (0, 0, 0), (0, 0, 0), (0, 0, 0), (0, 0, 0), (0, 0, 0), (0, 0, 0), (0, 0, 0), (0, 0, 0), (0, 0, 0), (0, 0, 0), (0, 0, 0),
     (0, 0, 0), (0, 0, 0), (0, 0, 0), (0, 0, 0), (0, 0, 0), (0, 0, 0), (0, 0, 0), (0, 0, 0), (0, 0, 0), (0, 0, 0), (0, 0, 0), (0, 0, 0), (0, 0, 0), (0, 0, 0), (0, 0, 0), (0, 0, 0),

diff --git a/Bag3/Code/Stations/Icon Display Station/icons/fish.py b/Bag3/Code/Stations/Icon Display Station/icons/fish.py
@@ -3,16 +3,16 @@ ICON = (
     (0, 0, 0), (0, 0, 0), (0, 0, 0), (0, 0, 0), (0, 0, 0), (0, 0, 0), (0, 0, 0), (0, 0, 0), (0, 0, 0), (0, 0, 0), (0, 0, 0), (0, 0, 0), (0, 0, 0), (0, 0, 0), (0, 0, 0), (0, 0, 0),
     (0, 0, 0), (0, 0, 0), (0, 0, 0), (0, 0, 0), (0, 0, 0), (0, 0, 0), (0, 0, 0), (0, 0, 0), (0, 0, 0), (0, 0, 0), (0, 0, 0), (0, 0, 0), (0, 0, 0), (0, 0, 0), (0, 0, 0), (0, 0, 0),
     (0, 0, 0), (0, 0, 0), (0, 0, 0), (0, 0, 0), (0, 0, 0), (0, 0, 0), (0, 0, 0), (0, 0, 0), (0, 0, 0), (0, 0, 0), (0, 0, 0), (0, 0, 0), (0, 0, 0), (0, 0, 0), (0, 0, 0), (0, 0, 0),
-    (0, 0, 0), (0, 0, 0), (0, 0, 0), (0, 0, 0), (0, 0, 0), (0, 0, 0), (0, 0, 0), (0, 0, 0), (0, 0, 0), (0, 0, 0), (0, 0, 0), (0, 0, 0), (0, 0, 0), (0, 0, 0), (0, 0, 0), (0, 0, 0),
-    (0, 0, 0), (0, 0, 0), (0, 0, 0), (0, 0, 0), (0, 180, 140), (0, 0, 0), (0, 0, 0), (0, 0, 0), (0, 0, 0), (0, 0, 0), (0, 0, 0), (0, 0, 0), (0, 0, 0), (0, 0, 0), (0, 0, 0), (0, 0, 0),
-    (0, 0, 0), (0, 0, 0), (0, 0, 0), (0, 180, 140), (0, 180, 140), (0, 0, 0), (60, 160, 255), (60, 160, 255), (60, 160, 255), (60, 160, 255), (60, 160, 255), (60, 160, 255), (0, 0, 0), (0, 0, 0), (0, 0, 0), (0, 0, 0),
-    (0, 0, 0), (0, 0, 0), (0, 180, 140), (0, 180, 140), (0, 180, 140), (60, 160, 255), (60, 160, 255), (60, 160, 255), (0, 180, 140), (0, 180, 140), (0, 180, 140), (60, 160, 255), (60, 160, 255), (0, 0, 0), (0, 0, 0), (0, 0, 0),
-    (0, 0, 0), (0, 180, 140), (0, 180, 140), (0, 180, 140), (0, 180, 140), (60, 160, 255), (60, 160, 255), (60, 160, 255), (0, 180, 140), (0, 180, 140), (0, 180, 140), (60, 160, 255), (0, 0, 0), (60, 160, 255), (0, 0, 0), (0, 0, 0),
-    (0, 0, 0), (0, 180, 140), (0, 180, 140), (0, 180, 140), (0, 180, 140), (60, 160, 255), (60, 160, 255), (60, 160, 255), (60, 160, 255), (60, 160, 255), (60, 160, 255), (60, 160, 255), (60, 160, 255), (60, 160, 255), (0, 0, 0), (0, 0, 0),
-    (0, 0, 0), (0, 0, 0), (0, 180, 140), (0, 180, 140), (0, 180, 140), (60, 160, 255), (60, 160, 255), (60, 160, 255), (60, 160, 255), (60, 160, 255), (60, 160, 255), (60, 160, 255), (60, 160, 255), (0, 0, 0), (0, 0, 0), (0, 0, 0),
-    (0, 0, 0), (0, 0, 0), (0, 0, 0), (0, 180, 140), (0, 180, 140), (0, 0, 0), (60, 160, 255), (60, 160, 255), (60, 160, 255), (60, 160, 255), (60, 160, 255), (60, 160, 255), (0, 0, 0), (0, 0, 0), (0, 0, 0), (0, 0, 0),
-    (0, 0, 0), (0, 0, 0), (0, 0, 0), (0, 0, 0), (0, 180, 140), (0, 0, 0), (0, 0, 0), (0, 0, 0), (0, 0, 0), (0, 0, 0), (0, 0, 0), (0, 0, 0), (0, 0, 0), (0, 0, 0), (0, 0, 0), (0, 0, 0),
-    (0, 0, 0), (0, 0, 0), (0, 0, 0), (0, 0, 0), (0, 0, 0), (0, 0, 0), (0, 0, 0), (0, 0, 0), (0, 0, 0), (0, 0, 0), (0, 0, 0), (0, 0, 0), (0, 0, 0), (0, 0, 0), (0, 0, 0), (0, 0, 0),
+    (0, 0, 0), (0, 0, 0), (0, 0, 0), (0, 0, 0), (0, 0, 0), (0, 0, 0), (0, 0, 0), (0, 0, 0), (0, 180, 140), (0, 180, 140), (0, 0, 0), (0, 0, 0), (0, 0, 0), (0, 0, 0), (0, 0, 0), (0, 0, 0),
+    (0, 0, 0), (0, 0, 0), (0, 0, 0), (0, 0, 0), (0, 0, 0), (0, 0, 0), (0, 0, 0), (0, 0, 0), (0, 180, 140), (0, 180, 140), (60, 160, 255), (60, 160, 255), (0, 0, 0), (0, 0, 0), (0, 0, 0), (0, 0, 0),
+    (0, 0, 0), (0, 0, 0), (0, 0, 0), (0, 0, 0), (0, 0, 0), (0, 0, 0), (60, 160, 255), (60, 160, 255), (60, 160, 255), (60, 160, 255), (60, 160, 255), (60, 160, 255), (60, 160, 255), (0, 0, 0), (0, 0, 0), (0, 0, 0),
+    (0, 0, 0), (0, 180, 140), (0, 180, 140), (0, 0, 0), (0, 0, 0), (60, 160, 255), (60, 160, 255), (60, 160, 255), (60, 160, 255), (60, 160, 255), (60, 160, 255), (60, 160, 255), (60, 160, 255), (60, 160, 255), (0, 0, 0), (0, 0, 0),
+    (0, 0, 0), (0, 180, 140), (0, 180, 140), (0, 180, 140), (60, 160, 255), (60, 160, 255), (60, 160, 255), (60, 160, 255), (60, 160, 255), (60, 160, 255), (60, 160, 255), (60, 160, 255), (0, 0, 0), (60, 160, 255), (60, 160, 255), (0, 0, 0),
+    (0, 0, 0), (0, 180, 140), (0, 180, 140), (0, 180, 140), (60, 160, 255), (60, 160, 255), (60, 160, 255), (60, 160, 255), (60, 160, 255), (60, 160, 255), (60, 160, 255), (60, 160, 255), (60, 160, 255), (60, 160, 255), (60, 160, 255), (0, 0, 0),
+    (0, 0, 0), (0, 180, 140), (0, 180, 140), (0, 180, 140), (60, 160, 255), (60, 160, 255), (60, 160, 255), (60, 160, 255), (60, 160, 255), (60, 160, 255), (60, 160, 255), (60, 160, 255), (60, 160, 255), (60, 160, 255), (60, 160, 255), (0, 0, 0),
+    (0, 0, 0), (0, 180, 140), (0, 180, 140), (0, 0, 0), (0, 0, 0), (60, 160, 255), (60, 160, 255), (60, 160, 255), (60, 160, 255), (60, 160, 255), (60, 160, 255), (60, 160, 255), (60, 160, 255), (60, 160, 255), (0, 0, 0), (0, 0, 0),
+    (0, 0, 0), (0, 0, 0), (0, 0, 0), (0, 0, 0), (0, 0, 0), (0, 0, 0), (60, 160, 255), (60, 160, 255), (60, 160, 255), (60, 160, 255), (60, 160, 255), (60, 160, 255), (60, 160, 255), (0, 0, 0), (0, 0, 0), (0, 0, 0),
+    (0, 0, 0), (0, 0, 0), (0, 0, 0), (0, 0, 0), (0, 0, 0), (0, 0, 0), (0, 0, 0), (0, 0, 0), (60, 160, 255), (60, 160, 255), (60, 160, 255), (60, 160, 255), (0, 0, 0), (0, 0, 0), (0, 0, 0), (0, 0, 0),
     (0, 0, 0), (0, 0, 0), (0, 0, 0), (0, 0, 0), (0, 0, 0), (0, 0, 0), (0, 0, 0), (0, 0, 0), (0, 0, 0), (0, 0, 0), (0, 0, 0), (0, 0, 0), (0, 0, 0), (0, 0, 0), (0, 0, 0), (0, 0, 0),
     (0, 0, 0), (0, 0, 0), (0, 0, 0), (0, 0, 0), (0, 0, 0), (0, 0, 0), (0, 0, 0), (0, 0, 0), (0, 0, 0), (0, 0, 0), (0, 0, 0), (0, 0, 0), (0, 0, 0), (0, 0, 0), (0, 0, 0), (0, 0, 0),
     (0, 0, 0), (0, 0, 0), (0, 0, 0), (0, 0, 0), (0, 0, 0), (0, 0, 0), (0, 0, 0), (0, 0, 0), (0, 0, 0), (0, 0, 0), (0, 0, 0), (0, 0, 0), (0, 0, 0), (0, 0, 0), (0, 0, 0), (0, 0, 0),

diff --git a/Bag3/Code/Stations/Icon Display Station/hand_author_icons.py b/Bag3/Code/Stations/Icon Display Station/hand_author_icons.py
@@ -171,28 +171,56 @@ def check(name, grid):
 # --------------------------------------------------------------- icon defs --
 
 def draw_dog(g):
-    ellipse(g, 9.5, 8, 5.5, 6, BROWN)      # head, rows[4,15] cols[2,14]
-    # ear bases sit at row 7, well inside the head's silhouette there (not
-    # just grazing its curved top edge), so they read as attached, not floating.
-    triangle(g, (1, 4), (7, 2), (7, 6), DKBROWN)    # left ear
-    triangle(g, (1, 12), (7, 10), (7, 14), DKBROWN)  # right ear
-    clear(g, 6, 6); clear(g, 6, 10)         # eyes
-    ellipse(g, 12, 8, 1.6, 2.2, DKBROWN)    # snout
-    clear(g, 12, 8)                          # nose (was row8,col12 -- off the snout entirely)
+    # Ear tips converge fast (only 1 row before the gap between them closes),
+    # so the notch stays narrow -- a wide notch reads as two separate lobes
+    # (bear-like) rather than small pointed ears on one head.
+    rect(g, 2, 5, 2, 6, DKBROWN); rect(g, 2, 9, 2, 10, DKBROWN)  # ear tips
+    rect(g, 3, 4, 3, 7, DKBROWN); rect(g, 3, 8, 3, 11, DKBROWN)  # gap closes here
+    rect(g, 4, 1, 4, 14, BROWN)  # head, full width from here down -- ears now read as part of one silhouette
+    rect(g, 5, 1, 5, 14, BROWN)
+    rect(g, 6, 1, 6, 14, BROWN)
+    rect(g, 7, 1, 7, 14, BROWN)
+    rect(g, 8, 1, 8, 14, BROWN)
+    rect(g, 9, 2, 9, 13, BROWN)
+    rect(g, 10, 2, 10, 13, BROWN)
+    rect(g, 11, 3, 11, 12, BROWN)
+    rect(g, 12, 4, 12, 11, BROWN)
+    rect(g, 13, 5, 13, 10, BROWN)
+    clear(g, 7, 4); clear(g, 7, 11)   # eyes
+    clear(g, 10, 7); clear(g, 10, 8)  # nose (a cutout, not a lit color -- exempt from min-feature-size)
 
 
 def draw_cat(g):
-    ellipse(g, 9, 8, 6, 6, ORANGE)  # head, rows[3,15] cols[2,14]
-    triangle(g, (1, 4), (7, 2), (7, 6), ORANGE)    # left ear (same color: silhouette-only)
-    triangle(g, (1, 12), (7, 10), (7, 14), ORANGE)  # right ear
-    clear(g, 6, 6); clear(g, 6, 11)
-    rect(g, 9, 8, 10, 9, DKBROWN)  # nose
+    rect(g, 2, 5, 2, 6, ORANGE); rect(g, 2, 9, 2, 10, ORANGE)  # ear tips
+    rect(g, 3, 4, 3, 7, ORANGE); rect(g, 3, 8, 3, 11, ORANGE)  # gap closes here
+    rect(g, 4, 1, 4, 14, ORANGE)
+    rect(g, 5, 1, 5, 14, ORANGE)
+    rect(g, 6, 1, 6, 14, ORANGE)
+    rect(g, 7, 1, 7, 14, ORANGE)
+    rect(g, 8, 1, 8, 14, ORANGE)
+    rect(g, 9, 2, 9, 13, ORANGE)
+    rect(g, 10, 2, 10, 13, ORANGE)
+    rect(g, 11, 3, 11, 12, ORANGE)
+    rect(g, 12, 4, 12, 11, ORANGE)
+    rect(g, 13, 5, 13, 10, ORANGE)
+    clear(g, 7, 4); clear(g, 7, 11)  # eyes
+    rect(g, 9, 7, 10, 8, DKBROWN)    # nose
 
 
 def draw_fish(g):
-    ellipse(g, 8, 9, 3.3, 5, SKY)  # body, rows[4.7,11.3] cols[4,14]
-    triangle(g, (8, 1), (4, 5), (12, 5), TEAL)  # tail, base at col5 -- inside the body, not past its left edge
-    rect(g, 6, 8, 7, 10, TEAL)  # top fin, inside the body's upper half
+    # Tail is a staircase diamond (widens then narrows toward the point) that
+    # shares its rightmost column with the body's leftmost column each row,
+    # so it's welded on rather than floating next to it.
+    rect(g, 4, 8, 4, 11, SKY)                      # body top
+    rect(g, 5, 6, 5, 12, SKY)
+    rect(g, 6, 1, 6, 2, TEAL); rect(g, 6, 5, 6, 13, SKY)
+    rect(g, 7, 1, 7, 3, TEAL); rect(g, 7, 4, 7, 14, SKY)
+    rect(g, 8, 1, 8, 4, TEAL); rect(g, 8, 4, 8, 14, SKY)  # tail's widest row
+    rect(g, 9, 1, 9, 3, TEAL); rect(g, 9, 4, 9, 14, SKY)
+    rect(g, 10, 1, 10, 2, TEAL); rect(g, 10, 5, 10, 13, SKY)
+    rect(g, 11, 6, 11, 12, SKY)
+    rect(g, 12, 8, 12, 11, SKY)
+    rect(g, 3, 8, 4, 9, TEAL)  # top fin, 2 rows so it clears the min-feature-size floor
     clear(g, 7, 12)  # eye, near the front (right side)
 
 
